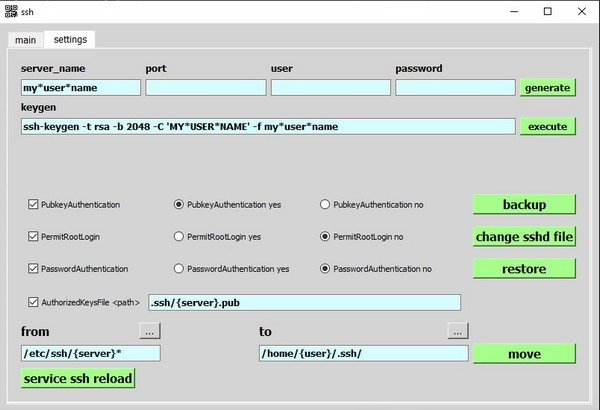
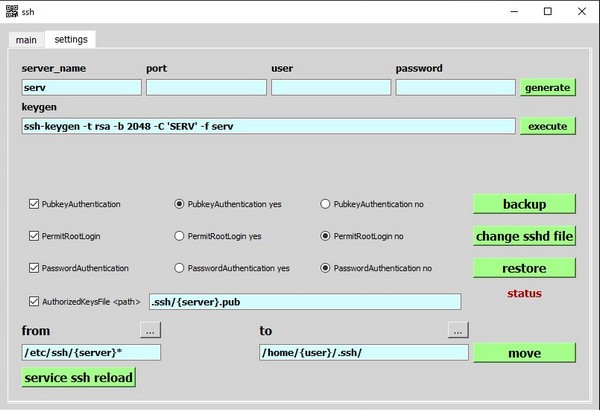
fixed 'move', 'change sshd'

diff --git a/configuration_host.py b/configuration_host.py
@@ -22,7 +22,8 @@ class Host:
         result = ''
         system_os = system()
         if system_os == 'Windows':
-            result += getoutput(f"ping -n 3 {host}")
+            system_encoding = getoutput('chcp').split(' ')[-1]
+            result += getoutput(f"ping -n 3 {host}", encoding=system_encoding)
             return result
         elif system_os == 'Linux':
             result = getoutput(f"ping -c3 {host}")
@@ -60,32 +61,34 @@ class ConfigHost:
                           password_authentication: str = '',
                           authorized_keys_file_path: bool = True,
                           path: str = '') -> None:
-        change = {"#PermitRootLogin": "PermitRootLogin no\n",
+        config = {"#PermitRootLogin": "PermitRootLogin no\n",
                   "#PubkeyAuthentication": "PubkeyAuthentication yes\n",
                   "#AuthorizedKeysFile": (f"AuthorizedKeysFile .ssh/"
                                           f"{server}.pub\n"),
                   "#PasswordAuthentication": "PasswordAuthentication no\n"}
         if not authorized_keys_file_path:
-            del change["#AuthorizedKeysFile"]
+            del config["#AuthorizedKeysFile"]
         elif authorized_keys_file_path:
             if path != '.ssh/{server}.pub' and path.strip() != '':
-                change["#AuthorizedKeysFile"] = f"AuthorizedKeysFile {path}\n"
+                config["#AuthorizedKeysFile"] = f"AuthorizedKeysFile {path}\n"
         if pubkey_authentication:
             if pubkey_authentication == 'no':
-                change['#PubkeyAuthentication'] = "PubkeyAuthentication no\n"
+                config['#PubkeyAuthentication'] = "PubkeyAuthentication no\n"
         elif not pubkey_authentication:
-            del change['#PubkeyAuthentication']
+            del config['#PubkeyAuthentication']
         if permit_root_login:
             if permit_root_login == 'yes':
-                change["#PermitRootLogin"] = "PermitRootLogin yes\n"
+                config["#PermitRootLogin"] = "PermitRootLogin yes\n"
         elif not permit_root_login:
-            del change["#PermitRootLogin"]
+            del config["#PermitRootLogin"]
         if password_authentication:
             if password_authentication == 'yes':
-                change[
-                    "#PasswordAuthentication"] = "PasswordAuthentication yes\n"
+                config["#PasswordAuthentication"] = "PasswordAuthentication yes\n"
         elif not password_authentication:
-            del change["#PasswordAuthentication"]
+            del config["#PasswordAuthentication"]
+        ConfigHost.change_config(self, config)
+
+    def change_config(self, _config):
         text: list = []
         with open(self.sshd_config, 'r') as config:
             text = config.readlines()
@@ -93,50 +96,35 @@ class ConfigHost:
             text.reverse()
             while text:
                 string = text.pop()
-                for key in change:
+                for key in _config:
                     if string.startswith(key):
-                        string = change[key]
+                        string = _config[key]
                 config.writelines(string)
 
-    def sed_config_change(self, server: str) -> None:
-        """
-        Variant 2. GNU CoreUtils: sed
-        :param server: str
-        :return: None
-        """
-        change = {"#PermitRootLogin": "PermitRootLogin no\n",
-                  "#PubkeyAuthentication": "PubkeyAuthentication yes\n",
-                  "#AuthorizedKeysFile": (f"AuthorizedKeysFile .ssh/"
-                                          f"{server}.pub\n"),
-                  "#PasswordAuthentication": "PasswordAuthentication no\n"}
-        for key, value in change.items():
-            run(f"sed -i 'c/{key}/{value[:-2]}' {self.sshd_config}")
-
-    def move_and_change(self, from_ssh: str,
+    @staticmethod
+    def move_and_change(from_ssh: str,
                         to_ssh: str,
                         user: str,
                         server: str) -> None:
         # home_ssh = f'/home/{user}/.ssh'
-        if not from_ssh.endswith('/'):
-            from_ssh = from_ssh + '/'
-        exists_from_ssh = os.path.exists(from_ssh + server)
-        exists_etc_ssh = os.path.exists(self.etc_ssh + server)
-        from_path = from_ssh + server if exists_from_ssh else server
-        if exists_etc_ssh and not from_path:
-            from_path = self.etc_ssh + server
-        if to_ssh.startswith('/home/') and (exists_from_ssh or exists_etc_ssh):
+        if os.path.exists(from_ssh) and os.path.isfile(from_ssh):
             if not os.path.exists(to_ssh):
                 os.mkdir(to_ssh)
-            if os.path.exists(from_path) and os.path.exists(to_ssh):
-                move(from_path, to_ssh)
-                move(from_path + '.pub', to_ssh)
-                cmd = [f"cd {to_ssh}",
-                       f"chmod 600 {server}*",
-                       f"chown {user}:{user} {server}*",
-                       f"systemctl reload sshd"]
+            if os.path.exists(to_ssh) and os.path.isdir(to_ssh):
+                move(from_ssh, to_ssh)
+            if os.path.exists(from_ssh + '.pub') and os.path.isfile(from_ssh + '.pub'):
+                move(from_ssh + '.pub', to_ssh)
+            if os.path.exists(to_ssh + server) or os.path.exists(f'{to_ssh}/{server}'):
+                if not to_ssh.endswith('/'):
+                    to_ssh = to_ssh + '/'
+                cmd = [f"chmod 700 {to_ssh}",
+                       f"chmod 600 {to_ssh}{server}*"]
                 [run(i, shell=True) for i in cmd]
+                if user:
+                    cmd = f'chown {user}:{user} {to_ssh}{server}*'
+                    run(cmd, shell=True)
 
     @staticmethod
     def service_config_reload() -> None:
-        cmd = 'systemctl reload ssh'
+        cmd = 'sudo systemctl reload sshd'
         run(cmd, shell=True)

diff --git a/main.py b/main.py
@@ -94,12 +94,16 @@ def set_config() -> None:
     authorized_keys_file_path = (True if window.checkBox_3.isChecked()
                                  else False)
     path = window.lineEdit_11.displayText()
-    config.set_config_change(server=window.lineEdit_7.displayText(),
-                             pubkey_authentication=pubkey_authentication,
-                             permit_root_login=permit_root_login,
-                             password_authentication=password_authentication,
-                             authorized_keys_file_path=authorized_keys_file_path,
-                             path=path)
+    try:
+        config.set_config_change(server=window.lineEdit_7.displayText(),
+                                 pubkey_authentication=pubkey_authentication,
+                                 permit_root_login=permit_root_login,
+                                 password_authentication=password_authentication,
+                                 authorized_keys_file_path=authorized_keys_file_path,
+                                 path=path)
+        window.label_11.setText('success')
+    except PermissionError:
+        window.label_11.setText('forbidden! (!sudo)')
 
 
 def move_and_change() -> None:
